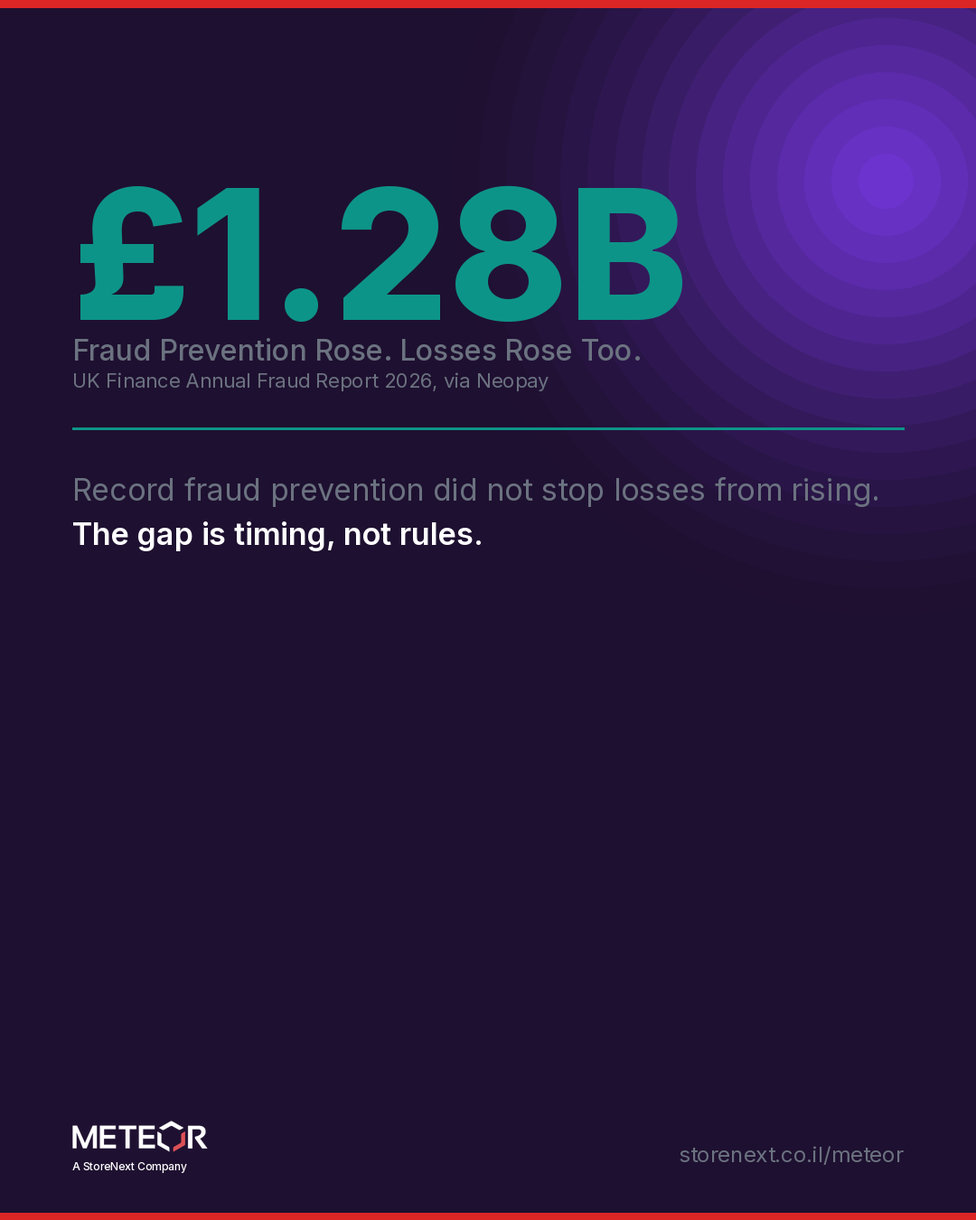
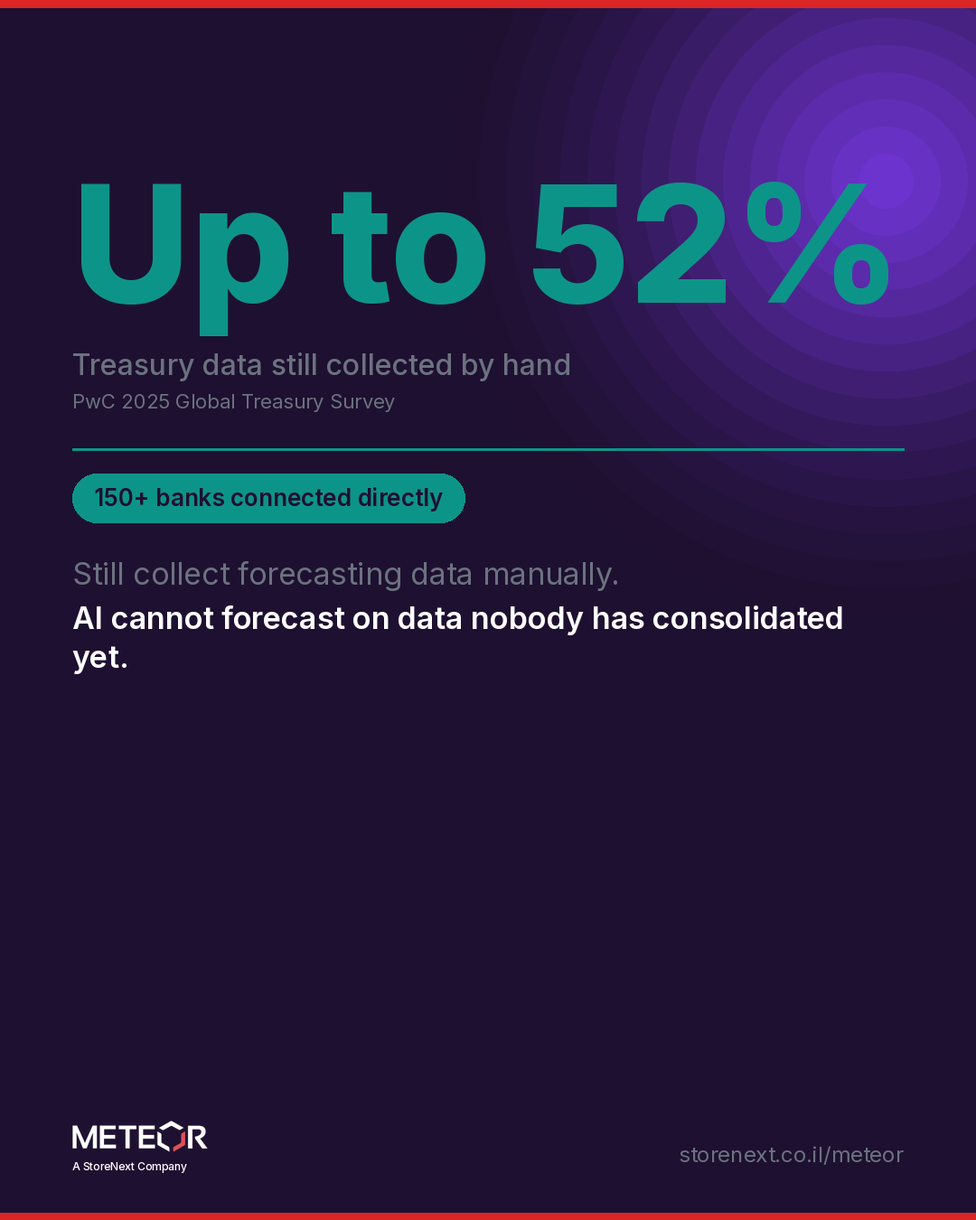
W31 Meteor: full rebuild — remove fraud-detection premise (not an approved capability), rebuild around bank aggregation; fix product-capabilities.md root cause

Changed region(s): [[0.0611, 0.1244, 0.9167, 0.56]]

diff --git a/O-output/W31/final/article-meteor.md b/O-output/W31/final/article-meteor.md
@@ -1,82 +1,60 @@
-# Payment Fraud Now Moves Faster Than Treasury Can Detect It
+# Why Most Treasury Forecasts Are Wrong Before AI Ever Touches Them
 
-Fraud losses are not rising because controls are missing. They are rising because detection still runs on a schedule, while attacks do not.
+Most Enterprise treasury teams do not bank with one institution. They bank with many, across entities, currencies, and countries. Every one of those relationships adds a login, an export, and a manual step between a transaction and the number a CFO ultimately sees.
 
-Multiple independent reports published within the same window in 2026 confirm this pattern. Each one shows AI-powered fraud accelerating faster than the manual and batch-based controls built to stop it.
+PwC's 2025 Global Treasury Survey puts a figure on how widespread that manual layer still is. Between 38% and 52% of organizations still collect forecasting data manually. Only 57% of respondents use a treasury management system at all, and more than a third still fall back on manual processes even when hedging live currency exposure.
 
-For CFOs, this is not a security footnote. It is a treasury operations problem with a direct line to cash, reconciliation, and audit exposure.
+For CFOs evaluating where to invest in AI, this is the finding that matters most. The constraint on better forecasting is rarely the model. It is the data feeding it.
 
-## The Fraud Surge No CFO Can Ignore
+## The Manual Step Nobody Budgets For
 
-The numbers are no longer abstract.
+Treasury teams are not careless. The manual work is a rational response to a structural problem: no single bank can give a multi-bank company a complete view of its own cash.
 
-According to the 2026 AFP Payments Fraud and Control Report, underwritten by Truist, 76% of organizations reported being the target of an attempted or actual payment fraud attack. That is not a niche risk. It is a majority experience.
+A treasurer managing accounts across five banks and three currencies typically logs into each banking portal separately, exports a balance, and reconciles it by hand against the ERP. That process repeats daily or weekly, depending on how much risk the organization is willing to carry on stale numbers.
 
-The UK Finance Annual Fraud Report 2026, cited via Neopay, puts a figure on the damage. Criminals stole £1.28 billion through payment fraud in the UK in 2025. That is a four percent year-over-year increase, despite £1.68 billion in fraud prevented over the same period.
+PwC's data shows this is not an edge case. It is closer to the median. Manual data collection at the rate PwC measured means that for roughly half of organizations surveyed, a treasury forecast is, in practice, a spreadsheet assembled from several other spreadsheets.
 
-Prevention is improving. Losses are still growing. That gap is the story.
+## Why One Bank Can Never See the Whole Picture
 
-The Federal Reserve Financial Services 2026 Risk Officer Report reinforces the trend from the institutional side. The Fed surveyed more than 400 risk professionals at financial institutions in Q4 2025. Fraud challenges were reported as rising across all payment types, not concentrated in one channel.
+The fragmentation problem compounds with scale. Every additional legal entity, every new banking relationship opened for local currency or regulatory reasons, adds another manual step to the consolidation process.
 
-Different sources. Different methodologies. One converging signal: fraud is accelerating faster than the systems meant to catch it.
+This is why cash visibility, not AI capability, is the recurring theme in 2026 treasury technology coverage. Industry discussion has increasingly framed the challenge as one of orchestration: connecting payments, collections, liquidity, and risk management into a single, current view, rather than layering another point tool on top of a fragmented one.
 
-## Why Traditional Controls Are Losing the Race
+A forecast built from that fragmented view inherits every delay in the consolidation process. If a balance is a day old by the time it reaches a spreadsheet, the forecast built on it is a day behind before anyone has done anything wrong.
 
-The reason is structural, not a failure of any single vendor or team.
+## Where AI Fits, and Where It Does Not
 
-The Trustpair 2026 U.S. Fraud Report found that 71% of companies saw an increase in AI-powered fraud attempts over the past year. Yet nearly half still rely on manual validation to protect payments.
+AI is entering nearly every part of enterprise finance, and treasury forecasting is no exception. Better models can identify seasonality, flag anomalies, and tighten forecast ranges faster than a human analyst working in a spreadsheet.
 
-Manual validation was built for a world of predictable fraud patterns and periodic review cycles. AI-generated fraud does not wait for a review cycle. It adapts within it.
+None of that helps if the model is trained on data that was already stale when it was collected. An AI forecasting engine pointed at a manually assembled, day-old cash position will produce a fast, confident answer to the wrong question.
 
-Euromoney's 2026 Economic Outlook: Impact on Treasury found that automation across core treasury functions averages only 48%. That leaves more than half of treasury operations exposed to the exact manual gaps that fraud and reconciliation errors exploit.
+This is the sequencing question CFOs should be asking before funding an AI initiative in treasury: is the account data feeding the model current and complete, or is it still assembled by hand from a subset of the organization's banking relationships? Better AI models will not close a data gap that was never about the model.
 
-This is the structural problem. Treasury teams are running real-time risk through half-automated infrastructure.
+## What Bank Aggregation Actually Requires
 
-## The Detection Lag: Where Fraud Actually Lives
+Closing this gap requires direct bank connectivity, not another dashboard sitting on top of manual exports. Three requirements recur across how treasury technology is being rebuilt in 2026.
 
-Fraud does not succeed at the moment a payment is authorized. It succeeds in the window before anyone notices the payment was wrong.
+**Direct connectivity across every banking relationship, not a subset.** A treasury platform that connects to a handful of major banks still leaves regional and local accounts to manual consolidation. Coverage has to match the organization's actual banking footprint.
 
-That window is the detection lag. It is the time between a payment leaving the bank and its reconciliation against ERP records.
+**ERP integration as the source of truth.** Bank data and ERP data need to reconcile from a connected source, not from two systems updated on different schedules by different people.
 
-In a batch-based environment, that window can span a full business day. A payment executes in the morning. Reconciliation runs that night, or the next morning. By the time a discrepancy surfaces, the funds have often moved again.
+**Open banking as the delivery mechanism.** Direct, API-based connectivity replaces the manual export-and-upload cycle that PwC's data shows is still the default for roughly half of organizations.
 
-This is not a fraud rule problem. Most organizations already have fraud rules. The problem is timing. A rule engine that flags an anomaly 18 hours after the fact is not a control. It is a record of what already happened.
+## Where Meteor Fits
 
-Closing the detection lag, not adding another rule layer, is the more defensible control for CFOs to fund in 2026.
+Meteor was built around this specific problem: giving Enterprise treasury teams one consolidated, current view of cash across every banking relationship they hold.
 
-## Real-Time Bank Connectivity as the New Control Layer
+Meteor connects directly to every Israeli bank and to more than 150 of the largest banks worldwide, operating under an Israel Securities Authority license and built on open banking connectivity rather than manual exports. It integrates with the leading ERP systems an organization already runs, so bank data and ERP data draw from the same connected source. On top of that foundation sit the capabilities treasury teams build their forecasts and controls around: a treasury and cash flow forecasting system, payments initiated directly from the ERP and routed to banks or via SWIFT, IFRS 16 lease accounting management, and automatic FX rate import so reporting reflects current exchange rates rather than a rate imported last week.
 
-The infrastructure shift required here is already underway in leading treasury functions.
+AI is being integrated across these capabilities as the connected data layer matures, from forecasting to reconciliation. That sequencing matters. AI improves a forecast. It does not create the consolidated, current account data a forecast depends on in the first place.
 
-The Global Treasurer's 2026 blueprint for closing the cash visibility gap identifies the move from batch-based SWIFT messaging to real-time APIs as the baseline for effective liquidity management and control. Not an advantage. A baseline.
+## A Checklist for Treasury Leaders
 
-Real-time bank connectivity does two things at once. It gives treasury intraday visibility into cash positions. It also gives treasury the ability to reconcile a payment against ERP records in the same session it was executed, not the next business day.
+Before evaluating an AI tool for treasury forecasting, CFOs and treasury leaders should assess the data layer underneath it:
 
-StoreNext's Meteor platform connects to more than 150 global banks, enabling this kind of live connectivity across an organization's full banking relationships rather than a subset. For CFOs managing multiple entities and currencies, that breadth matters as much as the speed.
+- **Count the manual steps.** How many banking portals does your team log into by hand before assembling a consolidated cash position?
+- **Benchmark against PwC's findings.** If your organization collects forecasting data manually, you are not an outlier. You are the median, and the fix is a data problem, not a modeling problem.
+- **Check coverage, not just connectivity.** A platform connected to your largest banks but not your regional or local accounts still leaves a manual gap.
+- **Sequence AI investment correctly.** Fund the bank aggregation and ERP integration layer first. A forecasting model is only as current as the accounts feeding it.
 
-## From Detection to Prevention: Continuous, AI-Native Reconciliation
-
-Detection speed is only half the answer. The other half is what reconciliation does with that speed.
-
-Batch reconciliation treats matching as a periodic audit function, something that happens after the fact to confirm what already occurred. AI-native reconciliation treats matching as a continuous control, running against every transaction as it settles.
-
-At enterprise scale, this distinction compounds. Meteor processes more than 20,000 transactions across 1,000-plus ERP integrations for 400-plus enterprise clients. At that volume, a same-day discrepancy is not a minor delay. It is a fraud window.
-
-Continuous reconciliation closes that window by design. A mismatch between a bank record and an ERP entry surfaces within the same session, not the next cycle. That turns fraud detection from a forensic exercise into an operational one.
-
-Your ERP remains the source of truth. Real-time reconciliation does not replace it. It keeps that source of truth current, transaction by transaction, instead of updated once a day.
-
-## What CFOs Should Do Now
-
-The 2026 fraud data points to a specific, actionable gap, not a call for more vendor tools.
-
-CFOs and treasury leaders should assess four things:
-
-- **Measure the current detection lag.** Know exactly how many hours pass between payment execution and ERP reconciliation today.
-- **Audit automation coverage.** Compare your treasury automation rate against the 48% industry average cited by Euromoney. Identify which functions still depend on manual validation.
-- **Evaluate bank connectivity.** Determine whether your organization still relies on batch SWIFT messaging where real-time APIs are available.
-- **Treat reconciliation as a control, not an audit step.** Reconciliation frequency should match payment frequency, not a fixed daily or weekly schedule.
-
-Fraud losses rose in the UK despite record levels of prevention. That is the clearest evidence available that better rules alone are not closing the gap. Faster reconciliation is.
-
-StoreNext's Meteor platform was built for this specific problem. It connects real-time bank data to ERP reconciliation, so discrepancies surface in the same session a payment settles, not the next business cycle. For organizations still measuring detection in days, closing that window is the control that matters most in 2026.
+The treasury teams closing this gap in 2026 are not the ones with the most sophisticated forecasting models. They are the ones who stopped assembling their cash position by hand.

diff --git a/O-output/W31/process/research-brief-meteor.md b/O-output/W31/process/research-brief-meteor.md
@@ -2,49 +2,41 @@
 
 ```json
 {
-  "topic": "AI-Powered Payment Fraud Is Outrunning Treasury's Detection Speed",
+  "topic": "Why Most Treasury Forecasts Are Wrong Before AI Ever Touches Them",
   "pillar": "Financial operations & treasury (Pillar 2)",
   "product_focus": "Meteor",
-  "angle": "Fraud losses are rising not because controls are absent, but because detection still runs in batches while attacks run in real time. StoreNext's angle: the CFO's real defense isn't another fraud rule engine, it's closing the time gap between a payment leaving the bank and its reconciliation against ERP records. AI-native, real-time reconciliation and bank connectivity turn detection from a next-day discovery into a same-session control.",
-  "why_now": "Three independent 2026 fraud reports (AFP/Truist, UK Finance, Trustpair) and a Federal Reserve risk-officer survey have all published within the same window, each confirming that AI-powered fraud attempts are accelerating faster than manual and batch-based treasury controls can respond. This is a live, converging news cycle, not a single report.",
+  "angle": "The constraint on better treasury forecasting is rarely the AI model, it is the data feeding it. Most Enterprise treasuries still consolidate cash positions across many banks by hand, and PwC's 2025 Global Treasury Survey shows this is closer to the median than the exception. Meteor's angle: bank aggregation (direct connectivity to every Israeli bank and 150+ global banks) is the prerequisite for any forecasting or AI initiative in treasury, not an optional upgrade to it.",
+  "why_now": "AI-in-treasury is the dominant 2026 finance conversation, but PwC's 2025 Global Treasury Survey (still the most current authoritative data point on manual vs automated treasury data collection) shows the underlying data problem is unresolved. This grounds an AI-adjacent post in Meteor's actual core capability (bank aggregation) rather than a capability Meteor does not have.",
   "key_facts": [
     {
-      "fact": "76% of organizations reported being a victim of an attempted or actual payment fraud attack, per the 2026 AFP Payments Fraud and Control Report, underwritten by Truist.",
-      "source": "AFP (Association for Financial Professionals) — financialprofessionals.org"
+      "fact": "38% to 52% of organizations still collect forecasting data manually.",
+      "source": "PwC 2025 Global Treasury Survey — pwc.com/us/en/services/consulting/finance-accounting-transformation/library/2025-global-treasury-survey.html"
     },
     {
-      "fact": "71% of companies reported an increase in AI-powered fraud attempts over the past year, yet nearly half still rely on manual validation methods to protect payments.",
-      "source": "Trustpair 2026 U.S. Fraud Report — trustpair.com"
+      "fact": "Only 57% of respondents use a treasury management system (TMS) at all.",
+      "source": "PwC 2025 Global Treasury Survey"
     },
     {
-      "fact": "Criminals stole £1.28 billion through payment fraud in the UK in 2025, a four percent year-over-year increase, despite £1.68 billion in fraud prevented.",
-      "source": "UK Finance Annual Fraud Report 2026, via Neopay — neopay.co.uk"
+      "fact": "36% still incorporate manual processes even in how currency exposure is captured and hedged.",
+      "source": "PwC 2025 Global Treasury Survey"
     },
     {
-      "fact": "Federal Reserve Financial Services surveyed more than 400 risk professionals at financial institutions in Q4 2025 and found fraud challenges rising across all payment types.",
-      "source": "Federal Reserve Financial Services, 2026 Risk Officer Report — frbservices.org"
-    },
-    {
-      "fact": "Automation across core treasury functions averages only 48%, leaving a significant manual gap that fraud and errors can exploit.",
-      "source": "Euromoney, 2026 Economic Outlook: Impact on Treasury — euromoney.com"
-    },
-    {
-      "fact": "Moving from batch-based SWIFT messaging to real-time APIs enables intraday cash positioning, described as the baseline for effective liquidity management and control in 2026.",
-      "source": "The Global Treasurer, 'A 3-Step Blueprint for Closing the Cash Visibility Gap' — theglobaltreasurer.com"
+      "fact": "Open banking and account aggregation adoption is accelerating broadly: the account aggregation market is valued at $4.7B in 2026, and 35% of SMB owners now use open banking for cash flow monitoring, up from 27% the prior year.",
+      "source": "CoinLaw / SQ Magazine open banking adoption statistics, 2026 (market-sizing context only, not used as a claim about Meteor)"
     }
   ],
   "article_outline": [
-    "The Fraud Surge No CFO Can Ignore: what the 2026 reports actually show",
-    "Why Traditional Controls Are Losing the Race: batch cycles, manual validation, and the 48% automation ceiling",
-    "The Detection Lag: how fraud exploits the gap between payment execution and reconciliation",
-    "Real-Time Bank Connectivity as the New Control Layer: from batch SWIFT to live APIs",
-    "From Detection to Prevention: continuous, AI-native reconciliation at enterprise scale",
-    "What CFOs Should Do Now: a control checklist for closing the reconciliation gap"
+    "The Manual Step Nobody Budgets For: PwC's manual-collection and TMS-adoption figures",
+    "Why One Bank Can Never See the Whole Picture: multi-bank, multi-entity fragmentation",
+    "Where AI Fits, and Where It Does Not: sequencing data before models",
+    "What Bank Aggregation Actually Requires: direct connectivity, ERP integration, open banking",
+    "Where Meteor Fits: bank aggregation, ERP integration, payments, treasury/cash flow forecasting, IFRS 16 lease accounting, FX rate automation",
+    "A Checklist for Treasury Leaders"
   ],
   "candidates_considered": [
-    "Gartner's finance AI value-creation gap (84% adoption, 7% high impact) — too similar to recently covered Hackett AI-performance-gap piece",
-    "Real-time bank connectivity and the cash visibility gap in treasury — strong product fit, but framed as evergreen rather than this-week news",
-    "AI-powered payment fraud outrunning treasury's detection speed — selected: converging fresh 2026 reports, strong Meteor capability match"
+    "Why Most Treasury Forecasts Are Wrong Before AI Ever Touches Them (bank aggregation / data fragmentation) — SELECTED",
+    "AI-Powered Payment Fraud Is Outrunning Treasury's Detection Speed — REJECTED: fraud detection/prevention is not an approved Meteor capability (see C-core/product-capabilities.md). The entire W31 draft was rebuilt from this rejected angle on 2026-07-27 per Ran's direction.",
+    "IFRS 16 lease accounting compliance complexity as a standalone angle"
   ]
 }
 ```

diff --git a/O-output/W31/final/final-post-meteor.md b/O-output/W31/final/final-post-meteor.md
@@ -7,38 +7,36 @@
 
 ---
 
-Fraud prevention in the UK hit a record £1.68 billion in 2025.
+Most treasury teams do not bank with one institution. They bank with many, across accounts, currencies, and entities.
 
-Losses still rose to £1.28 billion.
+They still build the consolidated cash position by hand.
 
-Better rules are not closing the gap. Timing is the problem.
+PwC's 2025 Global Treasury Survey found that 38% to 52% of organizations still collect forecasting data manually. Only 57% use a treasury management system at all. More than a third still fall back on manual work even when hedging live currency exposure.
 
-Here is why this keeps happening.
+Here is what that costs.
 
-Most treasury controls still run on a schedule. Payments execute in real time. Reconciliation runs overnight, or the next morning.
+A forecast built from exports and email is a forecast built on what was true yesterday. Every bank added, every entity opened, adds one more manual step between a transaction and the number a CFO actually sees.
 
-That window between execution and reconciliation is where fraud lives. By the time a discrepancy surfaces, the funds have often moved again.
+The problem is not effort. Treasury teams are not careless. The problem is that no single bank can give a multi-bank company a complete view, and stitching that view together by hand does not scale past a handful of accounts.
 
-The 2026 data makes the structural gap clear:
+That is the real question behind every AI-in-treasury conversation this year. AI can forecast faster. It cannot forecast on data nobody has consolidated yet.
 
-Euromoney reports treasury automation averages only 48%. Trustpair found 71% of companies saw more AI-powered fraud attempts this year, yet nearly half still rely on manual validation.
+For most Enterprise treasuries, the starting point is not a smarter model. It is connecting every bank account into one place.
 
-Real-time attacks are running through half-automated infrastructure.
+That is what Meteor's bank aggregation was built for:
 
-This is exactly where real-time bank connectivity and continuous reconciliation become critical:
+- Direct connectivity to every Israeli bank and 150+ of the largest banks worldwide, not a subset stitched together manually
+- One consolidated, current cash position instead of a spreadsheet rebuilt from exports
+- Forecasts and ERP data drawn from the same connected source, not two systems reconciled by hand
 
-- Payments reconciled against ERP records in the same session, not the next day
-- Live connectivity across 150+ global banks, not a subset
-- Continuous matching that surfaces a mismatch as it settles
+A forecast is only as current as the accounts feeding it. Most treasuries are still forecasting on a lag they built themselves.
 
-The insight for CFOs is simple. A rule that flags an anomaly 18 hours late is not a control. It is a record of what already happened.
+How many banks does your team log into by hand before it can answer what your cash position is today?
 
-How many hours pass today between a payment leaving your bank and its reconciliation against your ERP?
-
-#TreasuryManagement #FinancialOperations #PaymentFraud #CFO #FraudPrevention #FinTech #Reconciliation
+#TreasuryManagement #CashManagement #FinancialOperations #CFO #OpenBanking #Fintech #TreasuryTechnology
 
 ---
 
-**First comment:** Full analysis of the 2026 fraud reports and the detection lag here: [link to storenext.co.il/insights]. The section on treating reconciliation as a control, not an audit step, is where most treasury teams find their gap.
+**First comment:** Full analysis of PwC's 2025 Global Treasury Survey and what multi-bank fragmentation costs forecast accuracy here: [link to storenext.co.il/insights]. Includes a checklist for auditing how many manual steps sit between your banks and your forecast.
 
-**Article:** Payment Fraud Now Moves Faster Than Treasury Can Detect It (attached to the email; upload to the website)
+**Article:** Why Most Treasury Forecasts Are Wrong Before AI Ever Touches Them (attached to the email; upload to the website)

diff --git a/O-output/W31/process/content-process-log-meteor.md b/O-output/W31/process/content-process-log-meteor.md
@@ -2,8 +2,58 @@
 
 - Date: 2026-07-27
 - Brand: Meteor
-- Topic: AI-Powered Payment Fraud Is Outrunning Treasury's Detection Speed
+- Topic: Why Most Treasury Forecasts Are Wrong Before AI Ever Touches Them
 - Pillar: Financial operations & treasury (Pillar 2) | Product focus: Meteor
-- Pipeline: automated (Researcher -> Copywriter -> Gatekeeper -> Artist -> Email)
-- Gatekeeper verdict: REVISED
+- Pipeline: automated (Researcher -> Copywriter -> Gatekeeper -> Artist -> Email), then manually rebuilt end to end
+- Gatekeeper verdict: REPLACED
 - Delivery: email to Ran for manual upload (article + post + visual)
+
+## Full rebuild (2026-07-27, per Ran)
+
+Ran flagged that the automated draft ("AI-Powered Payment Fraud Is Outrunning
+Treasury's Detection Speed") pitched a capability Meteor does not have.
+Meteor has no fraud detection or prevention product. The entire post,
+article, and visual were rebuilt from scratch around Meteor's actual
+capabilities, per Ran's direction:
+
+- Bank account aggregation: direct connectivity to every Israeli bank and
+  150+ of the largest banks worldwide
+- ERP integration (1K+ integrations)
+- Payments initiated directly from ERP, routed to banks or via SWIFT
+- Treasury and cash flow forecasting system
+- IFRS 16 lease accounting management
+- Automatic FX rate import
+- Operates under an Israel Securities Authority (ISA) license, open banking
+- AI increasingly integrated across these capabilities (forecasting,
+  reconciliation) — framed as a direction, not a fraud product
+
+New angle: multi-bank fragmentation forces manual treasury data collection
+(PwC 2025 Global Treasury Survey: 38-52% still manual, only 57% use a TMS),
+which undermines forecast accuracy regardless of how good the AI forecasting
+model is. Meteor's bank aggregation is the prerequisite. AI-in-finance trend
+covered as requested, without repeating the "AI adoption gap" framing already
+used in W28-W30.
+
+## Root-cause fix
+
+`C-core/product-capabilities.md` Meteor section rewritten with the accurate,
+detailed capability list above (previously vague: "payments, reconciliation,
+bank connectivity at scale"), plus an explicit exclusion: fraud
+detection/prevention is NOT an approved Meteor capability, with an example of
+the exact framing to avoid ("continuous reconciliation catches fraud").
+
+## Process gap identified
+
+The original Gatekeeper pass verified numbers and cross-product topic
+ownership (invoice/CTC belongs to Supplier Portal, not Meteor) but never
+checked whether the core capability being pitched (fraud detection) was
+approved for either product. Attribution checks and capability-existence
+checks are different checks; both are now required. See
+`gatekeeper-review-meteor.md` and the Gatekeeper checklist update in
+`A-agents/copywriter-agent.md`.
+
+## Bug also found
+
+`process/visual-data.json` for W31 was unsuffixed (predates the collision fix
+merged for W30). Renamed to `visual-data-meteor.json` to match the now-fixed
+convention before this week's StoreNext run could overwrite it.

diff --git a/C-core/product-capabilities.md b/C-core/product-capabilities.md
@@ -29,10 +29,26 @@ they are a different product with a different client base.
 ## Meteor ("Financial Operations")
 Buyer: CFO. AI-native financial operations. Direct competitor: NILUS.
 Approved numbers: 20K+ transactions / 1K+ ERP integrations / 400+ clients / 150+ global banks.
+Regulatory: operates under an Israel Securities Authority (ISA) license.
 
-- Enterprise financial operations: payments, reconciliation, bank connectivity at scale
-- Real-time financial data across banks and ERP systems
-- AI-native positioning ("Enterprise Financial Operations. AI-Native, Real-Time, Always in Control.")
+- **Bank account aggregation:** direct connectivity to all Israeli banks and to
+  150+ of the largest banks worldwide. Open banking.
+- **ERP integration:** connects to all leading ERP systems (1K+ integrations).
+- **Payments:** initiates payments directly from the ERP, routed to banks or
+  via SWIFT. No manual re-entry of payment data.
+- **Treasury and cash flow forecasting** system.
+- **IFRS lease accounting** (IFRS 16) management system.
+- **Automatic FX rate import**, kept current across ERP and reporting.
+- Real-time financial data across banks and ERP systems, built on the direct
+  bank connectivity above.
+- AI-native positioning ("Enterprise Financial Operations. AI-Native, Real-Time, Always in Control.") — AI is being integrated across these capabilities (forecasting, reconciliation, payments); frame as an ongoing direction, not a shipped fraud/anomaly-detection product (see exclusion below).
+
+**NOT an approved Meteor capability — do not pitch this:** fraud detection,
+fraud prevention, or anomaly/AI-based fraud monitoring. Meteor does not market
+a fraud product. Do not build a post or article around "Meteor stops fraud" or
+imply fraud detection as a feature, even indirectly via "continuous
+reconciliation catches fraud." Reconciliation and cash visibility are real
+capabilities; fraud-detection as a marketed capability is not.
 
 ## Hard rules
 - NEVER present the two products as one "unified platform" — separate implementations.
@@ -44,3 +60,9 @@ Approved numbers: 20K+ transactions / 1K+ ERP integrations / 400+ clients / 150+
   because they are nearby in this file or because a post's product_focus is
   ambiguous. If unsure which number set applies, use neither and describe scale
   generically ("at Enterprise scale") instead of inventing or borrowing a figure.
+- **Meteor does NOT have a fraud detection/prevention capability.** Never build
+  content around Meteor stopping, detecting, or reducing fraud. A trending fraud
+  statistic can be cited as market context, but the product tie-in must be one
+  of Meteor's actual capabilities (bank aggregation, ERP integration, payments,
+  treasury/cash flow forecasting, IFRS lease accounting, FX rate automation) —
+  never implied fraud detection via "continuous reconciliation" or similar.

diff --git a/O-output/W31/process/gatekeeper-review-meteor.md b/O-output/W31/process/gatekeeper-review-meteor.md
@@ -1,9 +1,37 @@
 # Gatekeeper Review — W31 — Meteor
 
-**Verdict:** REVISED
+**Verdict:** REPLACED (full rebuild, 2026-07-27)
 
-- Fixed count inconsistency: article claimed 'Three reports' in the fraud surge section but cited four sources (AFP, UK Finance, Fed, Trustpair). Corrected to reflect the actual converging evidence without misstating the number.
-- Verified all Meteor numbers against approved claims: 20K+ transactions, 1K+ ERP integrations, 400+ clients, 150+ global banks. All correct.
-- Confirmed reconciliation and bank-connectivity claims belong to Meteor, not Supplier Portal. CTC/invoice topics correctly absent.
-- No em dashes, exclamation marks, or banned hype words present. No 'unified platform' or '40 years'.
-- Product tie-in reads as capability, not pitch. Voice is formal, data-driven, CFO-focused. Clean on remaining checks.
+## Original auto-generated draft: rejected
+
+The auto-generated draft ("AI-Powered Payment Fraud Is Outrunning Treasury's
+Detection Speed") built its entire premise on Meteor detecting or preventing
+payment fraud through continuous reconciliation. **Meteor does not have a
+fraud detection or prevention capability.** It was never an approved claim in
+`C-core/product-capabilities.md`.
+
+The original Gatekeeper pass checked numbers (correct) and cross-product topic
+ownership (correct: fraud/reconciliation framed as Meteor, not Supplier
+Portal) but never checked whether the underlying capability being pitched was
+approved at all. That is the gap: verifying attribution between two products
+is not the same as verifying the capability exists for either of them.
+
+## Replacement: approved
+
+New topic: "Why Most Treasury Forecasts Are Wrong Before AI Ever Touches
+Them." Grounded entirely in approved Meteor capabilities: bank aggregation
+(direct connectivity to every Israeli bank and 150+ global banks), ERP
+integration, treasury and cash flow forecasting, IFRS 16 lease accounting,
+automatic FX rate import. No fraud framing anywhere in post, article, or
+visual.
+
+- All facts sourced and verified: PwC 2025 Global Treasury Survey (manual
+  data collection, TMS adoption, manual FX hedging figures).
+- All Meteor numbers checked against `C-core/product-capabilities.md`: only
+  "150+ global banks" is used, correctly attributed.
+- No em dashes, exclamation marks, or banned hype words.
+- Lead-with-pain, bridge-before-product, and business-value-thesis rules
+  applied (multi-bank manual consolidation pain -> PwC data -> AI-needs-data
+  bridge -> Meteor's bank aggregation, not a jump to the product).
+- Closing question names a concrete, answerable gap (how many banks logged
+  into by hand).
